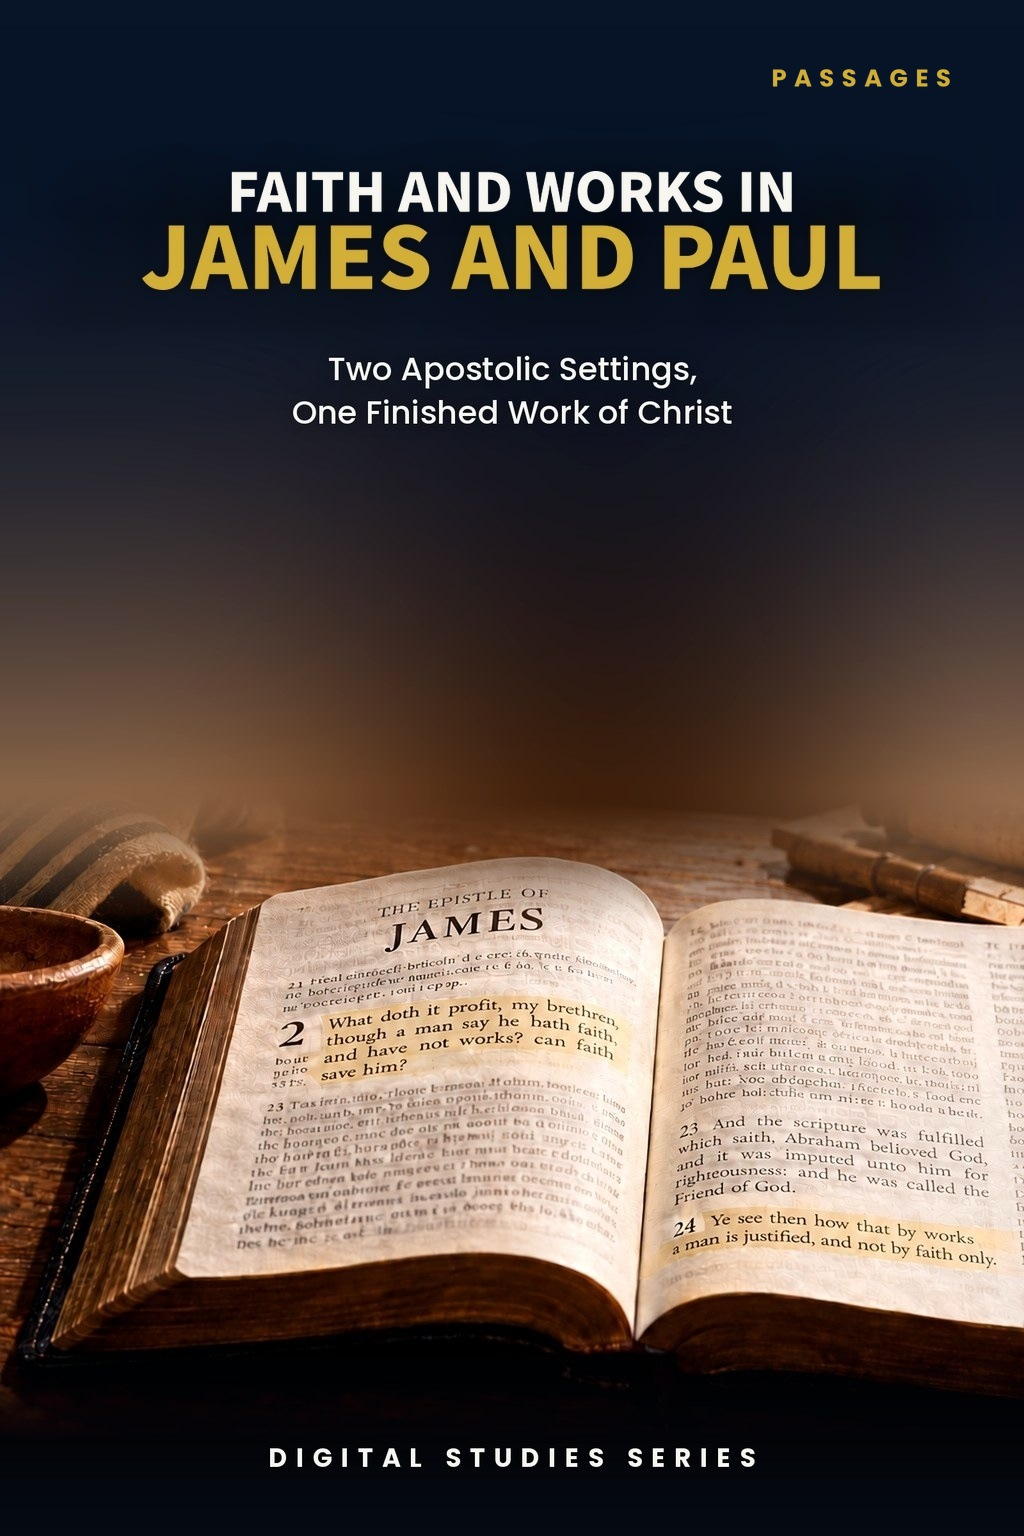
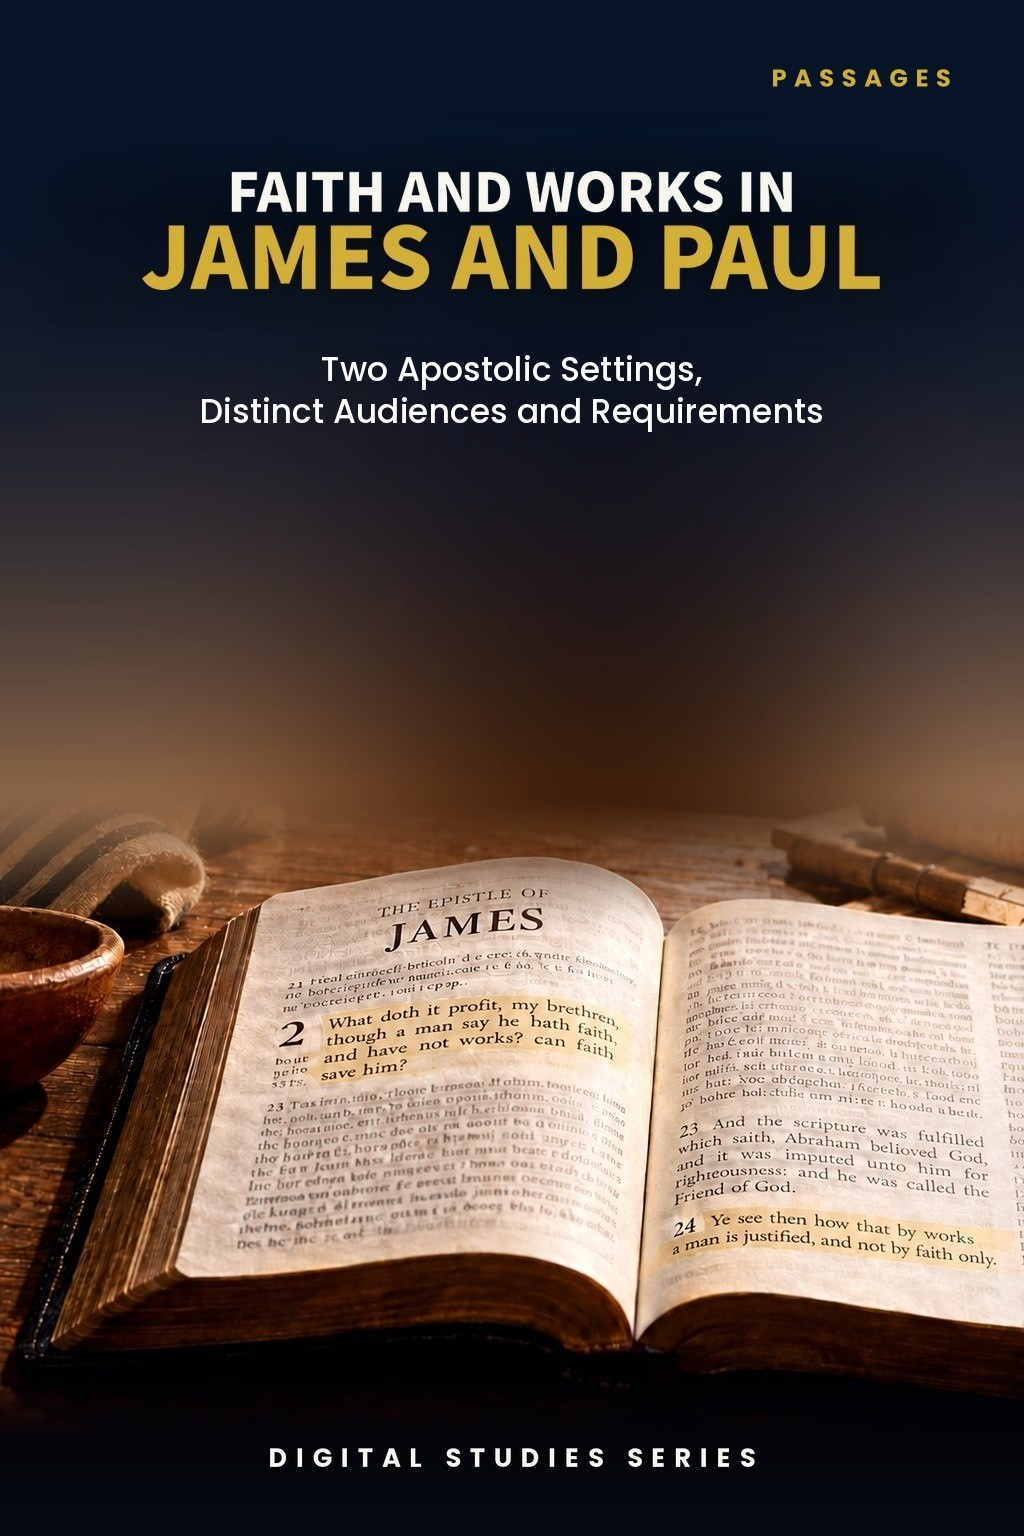
Study 15: cover subtitle re-lettered to Distinct Audiences and Requirements; trackers v1.58/v1.152
Claude-Session: https://claude.ai/code/session_01KcENxFzE91mCRyTPWhcwnE

Changed region(s): [[0.1875, 0.2188, 0.8125, 0.2812]]

diff --git a/CLAUDE.md b/CLAUDE.md
@@ -23,7 +23,7 @@ These are kept in the repo at `controlling-documents/` and are the current versi
 - As of v1.50 (publisher directive, 2026-10-03), the **What You Will Learn in This Study** section is always bulleted, never set as running paragraphs, written into this file in the same pass (Master Standard Section 3 item 4, Section 6 structure line, Section 22): a list of bullet points, each describing one process, textual marker or interpretive discipline the reader will practice (Section 17 still governs what they may say); at most one short lead-in line may stand above the bullets (for example, “By the end of this study, you should be able to:”); the Study Goal callout and the Study Outline keep their own forms. It governs every new study and every study rebuilt or retrofitted from now on; earlier studies take it when reopened or when the publisher directs. In every study check (Step 1), report whether the section is bulleted. First applied to Study 43.
 **`controlling-documents/Digital_Studies_Relationship_Map_v1.39.md`** — records each study's distinct subject, its related studies, the eight priced six-study collections, the Paul's Missionary Journeys cross-reference map, and the five primary catalog categories (currently version 1.39, covers Studies 1–71; update it as new studies publish, bump the version number, rename the file to match, and log the change in its own version-history table — mirroring the Master Standard's `_vX.Y` filename convention). Check a proposed topic against it before recommending or writing a new study. (2026-09-28: the file was missing from this repo despite this note referencing it; replaced from the publisher's copy and bumped v1.15→v1.25 in the same pass. If this note ever again points to a version not present under `controlling-documents/`, ask the publisher for a copy rather than proceeding without the check.)
 - **`controlling-documents/Digital_Studies_Category_Standard_v1.1.md`** — FINAL and binding (publisher, 2026-10-01): the rules for the five primary catalog categories (Foundations, Israel & Prophecy, Body of Christ, Passages, Doctrinal Themes), the ordered decision procedure for new studies, the precedents, all 71 fixed assignments, and the cover-label form for each category. Read it before placing any card or cover label. Do not ask the publisher where a study belongs; apply the procedure and state the result. Only the publisher changes a ruling; then bump this Standard's version and filename, re-letter the cover, and update the Relationship Map.
-- **`controlling-documents/Doctrinal_Upgrade_Retrofit_Plan_v1.57.md`** — working tracker for retrofitting Studies 1–59 to the 2026-10-02 doctrinal upgrade (Framework/PAM v1.1, Master Standard v1.40, Rules 7–17): withdrawn-wording search keys, impact tiers, waves and the per-study method. Read it before continuing the retrofit in any session; update status, bump the version and rename the file as work proceeds.
+- **`controlling-documents/Doctrinal_Upgrade_Retrofit_Plan_v1.58.md`** — working tracker for retrofitting Studies 1–59 to the 2026-10-02 doctrinal upgrade (Framework/PAM v1.1, Master Standard v1.40, Rules 7–17): withdrawn-wording search keys, impact tiers, waves and the per-study method. Read it before continuing the retrofit in any session; update status, bump the version and rename the file as work proceeds.
 - **`controlling-documents/Doctrinal_Packet_Standard_v0.3.md`** — Doctrinal Packet Standard (DRAFT; §7 approved). Governs the separate Doctrinal Packets product strand (5-page interpretive PDFs per Bible book — a print-friendly cover as page 1 plus 4 content pages, $2.99, KJV, pilot: Genesis, live at `packet-genesis.html`, hub `doctrinal-packets.html`; site pages say "5 Pages", cover styles live in `packets.css`, Old Testament blue and New Testament soft pale green, hub listed in Bible order). **Preview rule (publisher directive, 2026-09-29, packets only):** previews show about one page's worth in two cropped views (top of page 1 through the anchor texts; the chart section) — never the exegesis, architecture, Mystery contrast, logic chain, outline, or closing. Master Standard §16/§17 still govern Digital Studies. Bump the version and rename the file as the Standard is finalized.
 - **`controlling-documents/Preview_Page_Spoiler_Retrofit_Audit_v1.4.md`** — working tracker for the Studies 1–60 preview-page conclusion-spoiler retrofit (see the section below). Read it before continuing that audit in any session; update its status fields and changelog, bump the version, and rename the file to match as the audit proceeds — same `_vX.Y` convention as the other controlling documents. As of v1.1, the website-side half was DONE: all 60 studies' "What You'll Study" text was judged against the rule (methodology documented in the file) and 22 points across 11 studies were rewritten and pushed; an unrelated Study 22 content bug (Study 21's content had leaked into it) was also found and fixed. As of v1.2, the publisher supplied Studies 1–60's interior production PDFs and the interior-PDF half was also surveyed (read-only): 10 studies (37, 41, 45, 47, 48, 49, 51, 52, 53, 54) were found to have at least one interior "What You Will Learn" violation, 50 studies were confirmed compliant, and the orphaned `assets/study-45-sanctification-under-grace.docx` (removed from the repo per the publisher in v1.0) was confirmed word-for-word identical to Study 45's actual production interior PDF content. As of v1.3, the publisher supplied editable DOCX sources for all 10 violating studies; all 15 violating points were rewritten and approved, delivered as corrected final PDFs, and — along the way — a second defect was found and fixed (Studies 47 and 48's source DOCX still had an unintegrated cover placeholder despite both being long-published live with real covers; fixed by inserting the existing approved cover art). The website's "What You Will Learn" preview image (`study-NN-page-3.jpg`) was regenerated from the corrected content for all 10 studies and pushed to `main` (commit `cea1859`), verified against a fresh clone. **The website side of this audit is now fully compliant for all 60 studies.** Outstanding: the publisher's purchasable interior PDF files themselves have corrected versions delivered, but distribution to existing purchasers was decided by the publisher on 2026-09-29: silent swap of the files behind the existing downloads, no reissue notice (recorded in the v1.4 changelog entry; the product files are not in this repo).
 

diff --git a/controlling-documents/Doctrinal_Upgrade_Retrofit_Plan_v1.58.md b/controlling-documents/Doctrinal_Upgrade_Retrofit_Plan_v1.58.md
@@ -150,3 +150,4 @@ Working tracker for correcting published studies to the Framework/PAM v1.1, Mast
 - v1.55 (2026-10-03): Study 43 retrofit review copy built from the publisher’s approved wording (16 replacements; Rule 18 sentence verbatim): withdrawn shared-ground wording, internal terms ("Acts Overlap Theology", "Framework" anchors, "framework") removed, Section 10 retitled "Distinct Messages, Distinct Content of Faith", body reset to 10 pt, 20 pages (was 16); awaiting the publisher’s second approval for the website step (`site.js` 43:20, previews, page-count text). New rule, publisher directive: the What You Will Learn section is always bulleted (Master Standard v1.50 and CLAUDE.md; first applied to Study 43); earlier studies take it when reopened.
 - v1.56 (2026-10-03): Study 43 website step done on the publisher’s second approval: `site.js` 43:20; page-count text 20; previews 2, 3 re-rendered and the third preview moved from page 8 to page 10 (the gospel’s audience; `study-43-page-8.jpg` removed); local checks at 1280/390/360/320 clean. Final PDF/DOCX delivered.
 - v1.57 (2026-10-03): Live walk-through of Studies 12 and 15 (publisher request) found and fixed two items. (1) Study 15 final PDF: the contents entry for section 9 had its page number glued to the title ("Distinct Requirements9", no tab leader), a defect from the section 9 retitle; fixed, all three retrofitted contents pages (12, 15, 43) re-checked for a dotted leader and page number on every line, preview image 2 re-rendered, corrected final PDF/DOCX redelivered. (2) Study 12 page About text still said "Christ’s finished redemptive work"; changed to "Christ’s blood" under the publisher’s Study 12 ruling. Open for the publisher: the Study 15 cover art itself carries the subtitle "Two Apostolic Settings, One Finished Work of Christ" (the web subtitle already reads "Distinct Audiences and Requirements"); a cover change needs his approval.
+- v1.58 (2026-10-03): Study 15 cover subtitle re-lettered on the publisher’s wording and approved proof: "Two Apostolic Settings, Distinct Audiences and Requirements" (replaces "…One Finished Work of Christ"); only the subtitle changed. `assets/study-15-cover.jpg` replaced; cover in the interior DOCX/PDF replaced (15 pages, Roboto only, text of pages 2–15 unchanged). Corrected finals delivered.

diff --git a/controlling-documents/Digital_Studies_PAM_Audit_v1.152.md b/controlling-documents/Digital_Studies_PAM_Audit_v1.152.md
@@ -381,3 +381,4 @@ Study 15 PDF not yet supplied. Typography: none of Studies 2, 3, 6, 8 is in EB G
 - v1.149 (2026-10-03): Study 43 review copy built (see Retrofit Plan v1.55); Master Standard v1.50 adds the bulleted What You Will Learn rule.
 - v1.150 (2026-10-03): Study 43 retrofitted and live (see Retrofit Plan v1.56).
 - v1.151 (2026-10-03): Study 15 contents-entry fix and Study 12 About-text fix (see Retrofit Plan v1.57); Study 15 cover subtitle raised for the publisher.
+- v1.152 (2026-10-03): Study 15 cover subtitle re-lettered (see Retrofit Plan v1.58); item closed.
